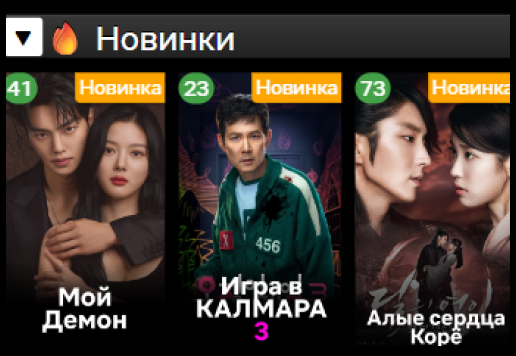
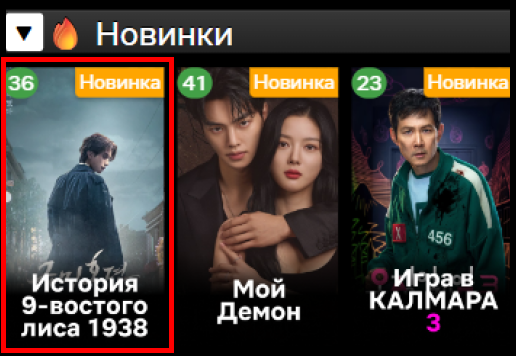
Обновление версии

diff --git a/videothemes.html b/videothemes.html
@@ -1253,9 +1253,9 @@
       // --- НАСТРОЙКИ ПОПАПА ОБНОВЛЕНИЯ ---
       const updateConfig = {
         version: '2407', // <<<< МЕНЯЙ ЗДЕСЬ ВЕРСИЮ
-        title: 'Обновление от 24.07', // <<<< МЕНЯЙ ЗДЕСЬ ЗАГОЛОВОК И ДАТУ
+        title: 'Обновление от 26.07', // <<<< МЕНЯЙ ЗДЕСЬ ЗАГОЛОВОК И ДАТУ
         image: 'videothemes/update_banner.png', // Путь к картинке
-        text: `Добавил Новые видео:\n🎬Игра в кальмара 3\n🎬Мой демон\n🎬Сердца Корё` // <<<< МЕНЯЙ ЗДЕСЬ ОСНОВНОЙ ТЕКСТ
+        text: `Добавил Новую Дораму:\n🎬История 9-хвостого лиса 1938` // <<<< МЕНЯЙ ЗДЕСЬ ОСНОВНОЙ ТЕКСТ
       };
       // ------------------------------------
 
